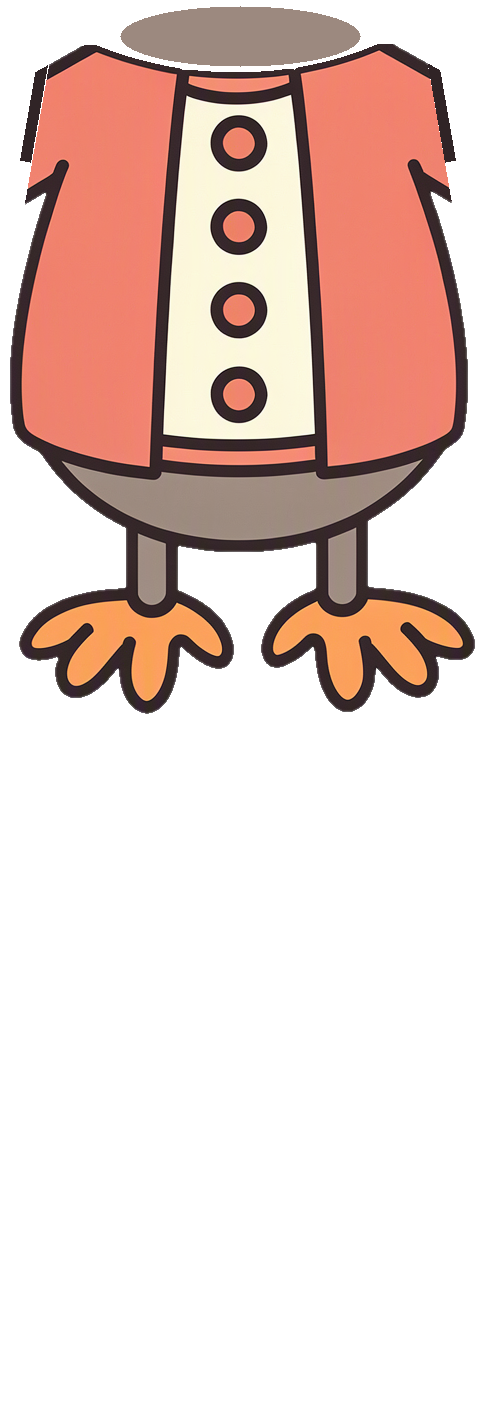
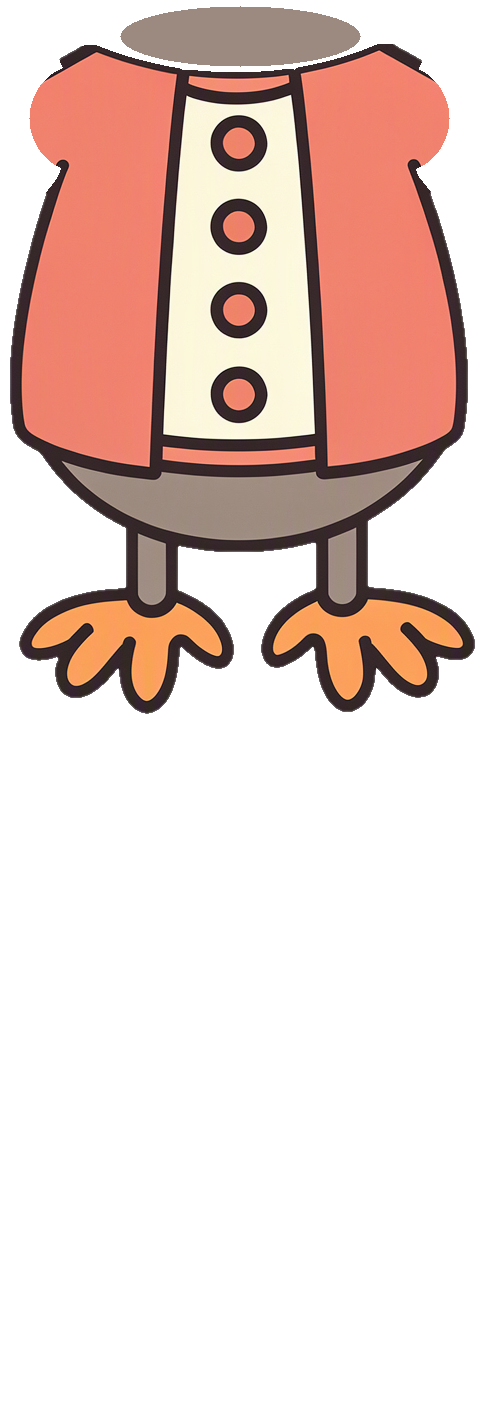
The owl's shoulders are round sockets, so a raised arm shows no sleeve stub (#516)
The torso kept flat, notched sleeve stubs at the shoulders, which showed once an
upper arm left about -22..+2 degrees of rest: every wave, point and cheer brief C
asks for. Each upper arm's shoulder end is now redrawn as a capsule round its
pivot, radius 55, running 60 px out to where the drawn sleeve's outlines take
over. The torso keeps only the socket under that disc and the shoulder's top
behind the pivot, and gets an outline along its side under each arm. cut_rig.py
now checks that the torso hides nothing of a sleeve outside its socket, and stops
if it does.

The forearms change by a few hundred pixels of armpit outline inside the elbow
disc, which the old sleeve strip used to trim. The upper arm's elbow cap covers
them at every angle. Pivots, parents and draw order are unchanged; only the upper
arms' canvases grow by 2-4 px.

held-out.sha256 hashes the brief texts only, so it doesn't change. A run pins
the pack by commit, so brief C's baseline re-runs and every later run of the owl
brief (H3) should be pinned at or after this commit.

Changed region(s): [[0.0312, 0.0312, 0.125, 0.1562], [0.875, 0.0312, 0.9688, 0.1562]]

diff --git a/docs/research/skills-eval/pack-src/character/cut_rig.py b/docs/research/skills-eval/pack-src/character/cut_rig.py
@@ -13,9 +13,11 @@ split by its dark outlines into fills; each fill goes to a group (head, torso, l
 right arm) by where its centre lies, and each outline pixel goes to the nearest group. The
 sleeves join the cardigan with no outline between them, so a seam is drawn across each
 shoulder before the split. Each arm is cut across its middle into an upper arm and a
-forearm, and round caps are painted at the elbow and shoulder so a bent joint reads as
-round. A flat grey neck is painted on the torso under the head so tilting the head never
-opens a hole. Every coordinate below was read off a gridded zoom of `master.png`.
+forearm, and a round cap is painted at the elbow so a bent joint reads as round. Each upper
+arm's shoulder end is redrawn as a capsule round its pivot, and the torso keeps only the
+socket under it, so a raised arm shows neither a stub of sleeve nor a hole. The cut checks
+this and stops if it doesn't hold. A flat grey neck is painted on the torso under the head
+so tilting the head never opens a hole. Every coordinate below was read off a gridded zoom of `master.png`.
 
 The five mouths are drawn here, not by FLUX: FLUX redrew the beak at a different size for
 every mouth it was asked for, and a mouth set that changes size flickers. Each mouth is
@@ -100,29 +102,96 @@ WRIST = {"left": (172, 815), "right": (840, 820)}
 ARM_R = 48  # half the sleeve's width, to the middle of its outline
 arms = {"left": left, "right": right}
 
-# The shoulders overlap, as in any cut-out puppet. The torso keeps a strip of each sleeve
-# next to the seam, so moving an arm never opens a hole; the upper arm keeps only the part
-# of that strip inside a disc round its pivot, which looks the same at every angle, so its
-# cut end never swings out over the cardigan.
-STRIP = 30
-SHOULDER_R = 40
+# The shoulders are round sockets, as in any cut-out puppet. Each upper arm's shoulder end is
+# redrawn as a capsule: a disc round the pivot, which looks the same at every angle, and a
+# straight run out to where the drawn sleeve takes over. The torso keeps, of each sleeve, only
+# what that disc covers and the shoulder's top behind the pivot, which no pose of the arm
+# covers or uncovers. So a turned arm never shows a stub of sleeve, and never opens a hole.
+# The drawn sleeve is wider at the shoulder than ARM_R and not centred on the pivot.
+SHOULDER_R = 55  # the socket's radius, to the middle of its outline
+CAPSULE = 60  # how far along the arm the capsule runs before the drawing takes over
+SEAMS = {"left": SEAM_L, "right": SEAM_R}
+near_arm = {"left": dL < dB, "right": dR < dB}  # nearer the sleeve's fill than the body's
 
 
-def beyond_seam(seam, side):
+def beyond_seam(side):
     """Distance past the seam line, towards the arm; negative on the body's side."""
-    (x0, y0), (x1, y1) = seam
+    (x0, y0), (x1, y1) = SEAMS[side]
     nx, ny = y1 - y0, -(x1 - x0)
     nx, ny = nx / np.hypot(nx, ny), ny / np.hypot(nx, ny)
     d = (xx - x0) * nx + (yy - y0) * ny
     return -d if side == "left" else d
 
 
-seam_strip = {}
-for side, seam in (("left", SEAM_L), ("right", SEAM_R)):
-    past = beyond_seam(seam, side)
-    seam_strip[side] = arms[side] & (past < STRIP)
-    torso |= seam_strip[side]
-    arms[side] = arms[side] & ~(seam_strip[side] & ~disk(SHOULDER[side], SHOULDER_R))
+def arm_frame(side):
+    """Distance along the arm from the shoulder pivot, and across it, at every pixel."""
+    sh, wr = np.array(SHOULDER[side], float), np.array(WRIST[side], float)
+    a = (wr - sh) / np.linalg.norm(wr - sh)
+    n = np.array([-a[1], a[0]])
+    return (xx - sh[0]) * a[0] + (yy - sh[1]) * a[1], (xx - sh[0]) * n[0] + (yy - sh[1]) * n[1]
+
+
+def median_fill(at):
+    """The drawing's colour round a point, as an RGB tuple."""
+    x, y = at
+    return tuple(int(v) for v in np.median(master[y - 6:y + 6, x - 6:x + 6].reshape(-1, 3), 0))
+
+
+# Outside its socket, the torso also gives up the sleeve's share of the outline at the
+# armpit; the upper arm covers it at rest, and it would show as a spur once the arm turned.
+sleeves = {side: arm.copy() for side, arm in arms.items()}
+for side in arms:
+    ahead = arm_frame(side)[0] >= 0
+    socket = disk(SHOULDER[side], SHOULDER_R)
+    torso |= arms[side] & (~ahead | socket)
+    torso &= ~(sleeves[side] & near_arm[side] & ahead & ~socket)
+    arms[side] = arms[side] & ahead
+
+
+def seam_ink(side):
+    """An outline along the seam, just inside the body, below the socket: the body's edge
+    once the arm turns away."""
+    beyond = beyond_seam(side)
+    return ((beyond > -OUTLINE) & (beyond <= 0) & (yy <= SEAMS[side][1][1])
+            & (arm_frame(side)[0] >= 0) & ~disk(SHOULDER[side], SHOULDER_R) & fg)
+
+
+def paint_shoulder(img, side, fill_at):
+    """The upper arm with its first CAPSULE pixels redrawn as a capsule round the pivot. Its
+    two sides run from the disc to the drawn sleeve's outlines, measured where they meet."""
+    sh, wr = np.array(SHOULDER[side], float), np.array(WRIST[side], float)
+    a = (wr - sh) / np.linalg.norm(wr - sh)
+    n = np.array([-a[1], a[0]])
+    along, across = arm_frame(side)
+    rim = sleeves[side] & dark & (np.abs(along - CAPSULE) < 1.5)  # a 3 px band across the sleeve
+    edges = [across[rim & (across > 0)], across[rim & (across < 0)]]
+    assert all(e.size for e in edges), f"no outline on the {side} sleeve {CAPSULE} px from the shoulder"
+    edges = [e.mean() for e in edges]
+    fill = median_fill(fill_at) + (255,)
+    # Drawn at 4x in a box round the pivot, then scaled down, for smooth edges.
+    s, half = 4, CAPSULE + SHOULDER_R + OUTLINE
+    ox, oy = int(sh[0]) - half, int(sh[1]) - half
+    at = lambda dist, off: tuple(((sh + a * dist + n * off) - (ox, oy)) * s)
+    centre = at(0, 0)
+    ring = lambda r: [centre[0] - r * s, centre[1] - r * s, centre[0] + r * s, centre[1] + r * s]
+    # The straight sides overlap the drawing by 2 px and the disc by 1 px, and the disc's
+    # outline runs 2 degrees past a half circle each way, so no seam shows between them.
+    end = CAPSULE + 2
+    layer = Image.new("RGBA", (2 * half * s, 2 * half * s), (0, 0, 0, 0))
+    draw = ImageDraw.Draw(layer)
+    draw.ellipse(ring(SHOULDER_R), fill=fill)
+    draw.polygon([at(0, SHOULDER_R), at(end, edges[0]), at(end, edges[1]), at(0, -SHOULDER_R)], fill=fill)
+    back = np.degrees(np.arctan2(-a[1], -a[0]))
+    draw.arc(ring(SHOULDER_R + OUTLINE / 2), back - 92, back + 92, fill=INK + (255,), width=OUTLINE * s)
+    for off, edge in zip((SHOULDER_R, -SHOULDER_R), edges):
+        draw.line([at(-1, off), at(end, edge)], fill=INK + (255,), width=OUTLINE * s)
+    layer = layer.resize((2 * half, 2 * half), Image.LANCZOS)
+    out = Image.new("RGBA", (W, H), (0, 0, 0, 0))
+    out.alpha_composite(layer, (ox, oy))
+    drawn = img.copy()
+    drawn[along < CAPSULE, 3] = 0
+    out.alpha_composite(Image.fromarray(drawn))
+    return np.asarray(out), disk(SHOULDER[side], half)
 
 
 # Pixels well inside the drawing, away from the background. A part is feathered only at
@@ -138,11 +207,10 @@ def rgba(mask, src=master, soft=1.0):
 
 
 def paint_joint(img, c, r, fill_at, ring_toward=None, spread=90):
-    """A filled disc at the joint, so a bent joint reads as round. `ring_toward` outlines
-    the arc facing that way: at the elbow it faces the forearm (a crease at rest, the
-    outside edge when bent); at the shoulder it faces away from the body."""
-    fx, fy = fill_at
-    fill = tuple(int(v) for v in np.median(master[fy - 6:fy + 6, fx - 6:fx + 6].reshape(-1, 3), 0))
+    """A filled disc at the elbow, so a bent joint reads as round. `ring_toward` outlines
+    the arc facing that way: on the upper arm it faces the forearm (a crease at rest, the
+    outside edge when bent)."""
+    fill = median_fill(fill_at)
     box = [c[0] - r - OUTLINE // 2, c[1] - r - OUTLINE // 2, c[0] + r + OUTLINE // 2, c[1] + r + OUTLINE // 2]
     # The disc goes under the part's own pixels, so it only fills what the cut took away.
     im = Image.new("RGBA", (W, H), (0, 0, 0, 0))
@@ -182,19 +250,21 @@ torso_img = rgba(torso)
 im =Image.fromarray(np.dstack([np.broadcast_to(np.array(GREY, np.uint8), (H, W, 3)), neck * np.uint8(255)]))
 im.alpha_composite(Image.fromarray(torso_img))  # the neck goes under the torso's feathered top edge
 torso_img = np.asarray(im).copy()
-# The sleeve strips' cut ends get an outline, as the shoulder's edge when an arm moves away.
-for side, seam in (("left", SEAM_L), ("right", SEAM_R)):
-    (sx0, sy0), (sx1, sy1) = seam
-    # Just past the strip, so at rest the upper arm covers it.
-    t = (STRIP + OUTLINE // 2 + 1) / np.hypot(sx1 - sx0, sy1 - sy0)
-    ox, oy = (sy1 - sy0) * t, -(sx1 - sx0) * t
-    if side == "left":
-        ox, oy = -ox, -oy
-    ImageDraw.Draw(im).line([(sx0 + ox, sy0 + oy), (sx1 + ox, sy1 + oy)], fill=INK + (255,), width=OUTLINE)
-edge = (np.asarray(im)[..., :3] != torso_img[..., :3]).any(2) & fg
-torso_img = np.asarray(im).copy()
-torso_img[~(torso | neck | edge), 3] = 0
-parts["torso"] = save_centered("torso", torso_img, FEET, torso | neck | edge)
+# The body's side under each arm gets an outline, as its edge once the arm moves away.
+for side in SEAMS:
+    ink = seam_ink(side)
+    torso_img[ink, :3] = INK
+    torso_img[ink, 3] = 255
+    torso |= ink
+torso_img[~(torso | neck), 3] = 0
+
+# The torso must hide nothing of a sleeve but its socket, which the upper arm covers at every
+# angle. Anything else would show once the arm turns.
+for side in SEAMS:
+    stub = ((torso_img[..., 3] > 0) & sleeves[side] & near_arm[side] & (arm_frame(side)[0] >= 0)
+            & ~disk(SHOULDER[side], SHOULDER_R))
+    assert not stub.any(), f"the torso keeps {stub.sum()} px of the {side} sleeve outside its socket"
+parts["torso"] = save_centered("torso", torso_img, FEET, torso | neck)
 
 for side, arm in arms.items():
     sh, wr = np.array(SHOULDER[side], float), np.array(WRIST[side], float)
@@ -205,9 +275,9 @@ for side, arm in arms.items():
     fore = arm & (below | disk(elbow, ARM_R))
     fill_at = tuple(int(v) for v in np.round(sh + axis * 0.4))
     up = paint_joint(rgba(upper), elbow, ARM_R - OUTLINE // 2, fill_at, ring_toward=axis)
-    up = paint_joint(up, SHOULDER[side], SHOULDER_R - OUTLINE // 2, fill_at)
-    parts[f"upper_arm_{side}"] = save_centered(
-        f"upper_arm_{side}", up, SHOULDER[side], upper | disk(elbow, ARM_R + 1) | disk(SHOULDER[side], SHOULDER_R + 1))
+    up, capsule = paint_shoulder(up, side, fill_at)
+    parts[f"upper_arm_{side}"] = save_centered(f"upper_arm_{side}", up, SHOULDER[side],
+                                               (upper | disk(elbow, ARM_R + 1) | capsule) & (up[..., 3] > 0))
     fo = paint_joint(rgba(fore), elbow, ARM_R - OUTLINE // 2, fill_at)
     parts[f"forearm_{side}"] = save_centered(f"forearm_{side}", fo, elbow, fore | disk(elbow, ARM_R + 1))
 

diff --git a/docs/research/skills-eval/assets/README.md b/docs/research/skills-eval/assets/README.md
@@ -94,7 +94,8 @@ parts, cropped to the owl.
   viewer's. A child follows its parent: when the upper arm turns, the elbow moves with it.
 - **`draw_order`** is back to front. Arms go over the body; the upper arm goes over the
   forearm, so the rounded elbow shows when it bends. The shoulders and elbows are
-  overlapping round joints, so a part turned about its pivot never shows a gap.
+  overlapping round joints (each upper arm ends in a round cap over a round socket in the
+  body), so a part turned about its pivot never shows a gap.
 - **The face overlays** (`mouth_*`, `eyes_closed`) are the head's own canvas, the same size
   and pivot, and are transparent except where they change the face. Put one exactly where
   the head is, with the head's rotation and scale, and it lines up. With no mouth overlay,
